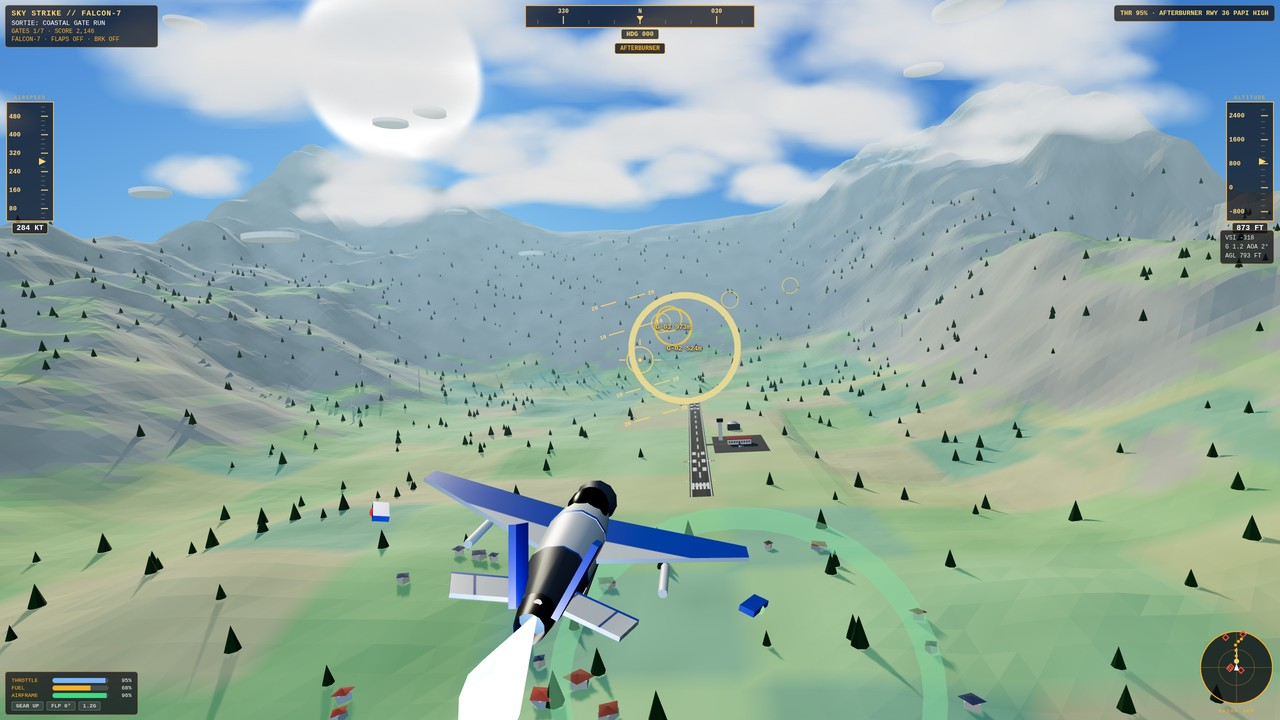
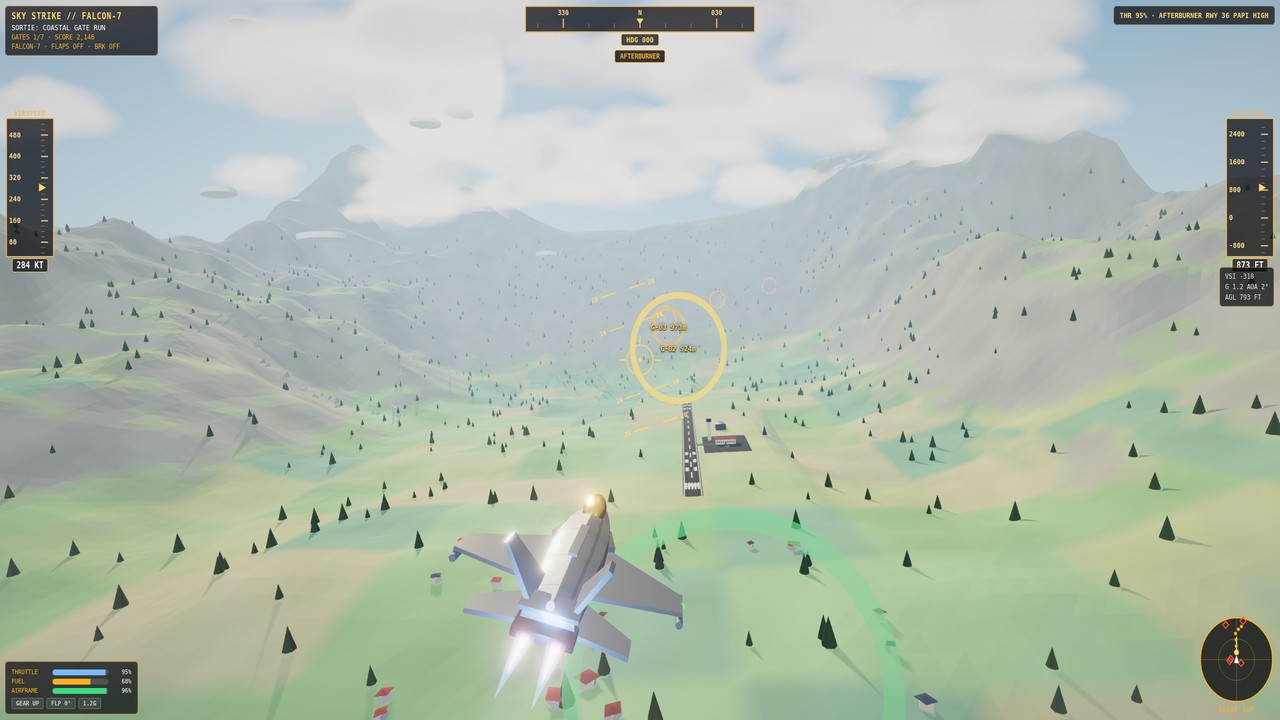
SKY STRIKE v4: render-pipeline pass — EffectComposer chain + PMREM env map (bloom 0.7/0.5/1.0, SMAA, OutputPass last, ACES 1.05-1.14, FogExp2, vignette+grade); r187 addons vendored; selftest 45/45; re-rendered 4 dossier shots

diff --git a/tools/selftest.html b/tools/selftest.html
@@ -14,6 +14,15 @@ import { Lightning } from '../game/src/lightning.js';
 import { buildJet } from '../game/src/jet.js';
 import { Cockpit } from '../game/src/cockpit.js';
 import { MISSIONS } from '../game/src/config.js';
+import { EffectComposer } from '../game/vendor/addons/postprocessing/EffectComposer.min.js';
+import { RenderPass } from '../game/vendor/addons/postprocessing/RenderPass.min.js';
+import { UnrealBloomPass } from '../game/vendor/addons/postprocessing/UnrealBloomPass.min.js';
+import { SMAAPass } from '../game/vendor/addons/postprocessing/SMAAPass.min.js';
+import { ShaderPass } from '../game/vendor/addons/postprocessing/ShaderPass.min.js';
+import { OutputPass } from '../game/vendor/addons/postprocessing/OutputPass.min.js';
+import { VignetteShader } from '../game/vendor/addons/shaders/VignetteShader.min.js';
+import { ColorCorrectionShader } from '../game/vendor/addons/shaders/ColorCorrectionShader.min.js';
+import { RoomEnvironment } from '../game/vendor/addons/environments/RoomEnvironment.min.js';
 
 const lines = [];
 const log = (s) => { lines.push(s); };
@@ -243,7 +252,7 @@ try {
   check('ultra visible in boss sortie', missiles.ultra.group.visible && missiles.ultraActive(), `visible=${missiles.ultra.group.visible} active=${missiles.ultraActive()}`);
   check('ultra beam aimed at kaiju', missiles.ultra.beam.visible, `beam=${missiles.ultra.beam.visible}`);
   check('ultra energy blade present', !!missiles.ultra.group.userData.blade && missiles.ultra.group.userData.blade.visible, `blade=${!!missiles.ultra.group.userData.blade}`);
-  check('kaiju is mecha (metal hull + cyan jaw)', !!missiles.targetById('KAIJU-1').group.userData.mecha && !!missiles.targetById('KAIJU-1').group.userData.jawGlow, `mecha=${!!missiles.targetById('KAIJU-1').group.userData.mecha}`);
+  check('kaiju is organic (hide + cyan jaw)', !!missiles.targetById('KAIJU-1').group.userData.organic && !!missiles.targetById('KAIJU-1').group.userData.jawGlow, `organic=${!!missiles.targetById('KAIJU-1').group.userData.organic}`);
   missiles.reset(); missiles.setActive(null);
   check('ultra hidden outside boss sortie', !missiles.ultra.group.visible && !missiles.ultraActive(), `visible=${missiles.ultra.group.visible}`);
   sky.apply('day', 'day');
@@ -256,10 +265,85 @@ try {
   const arch = cpRoot.querySelector('.canopy-arch');
   const archD = arch ? arch.getAttribute('d') : '';
   check('cockpit canopy arch is round (circle arc)', !!arch && /A 560,560 0 1 1/.test(archD) && archD.indexOf('M 97,720') === 0, `d=${archD}`);
+  // 10b. ronde 5: the instrument panel's top edge is an ARCH (centre
+  // higher than the sides), not a straight rectangle — the reference's
+  // sculpted tub. The SVG body path's top edge is sampled from
+  // panelArchY(): centre y ~4, sides ~56.
+  const panelBody = cpRoot.querySelector('.panel-arch-body');
+  const lip = cpRoot.querySelector('.panel-arch-lip');
+  let archOk = false, archDetail = '';
+  if (panelBody && lip) {
+    const pts = [...panelBody.getAttribute('d').matchAll(/L(\d+),(\d+)/g)].map((m) => [Number(m[1]), Number(m[2])]);
+    const topPts = pts.filter(([, y]) => y < 200);
+    const minY = Math.min(...topPts.map(([, y]) => y));
+    const maxY = Math.max(...topPts.map(([, y]) => y));
+    const centre = topPts.reduce((a, [x, y]) => (Math.abs(x - 640) < Math.abs(a[0] - 640) ? [x, y] : a), [0, 999])[1];
+    archOk = minY < 10 && maxY > 40 && centre === minY;
+    archDetail = `centreY=${centre} minY=${minY} maxY=${maxY}`;
+  }
+  check('cockpit panel top edge is an arch (centre high, sides low)', archOk, archDetail);
   runner.start(7, flight);
   check('mission 7 KAIJU vs ULTRA starts', runner.mission && runner.mission.id === 7 && runner.killsNeeded === 2, `id=${runner.mission && runner.mission.id} killsNeeded=${runner.killsNeeded}`);
   const d7 = runner.debrief(flight);
   check('debrief breakdown sums to score', d7.breakdown && d7.breakdown.reduce((a, r) => a + r.pts, 0) === d7.score, `sum=${d7.breakdown && d7.breakdown.reduce((a, r) => a + r.pts, 0)} score=${d7.score}`);
+
+  // 11. render pipeline (v4): vendored r187 addons + composer chain +
+  // env map — same constants as game/src/main.js (single preset, mirrored
+  // here so a drift in either file fails loudly).
+  const pCam = new THREE.PerspectiveCamera(62, 16 / 9, 0.5, 14000);
+  pCam.position.set(0, 300, 1600);
+  const pComposer = new EffectComposer(renderer,
+    new THREE.WebGLRenderTarget(1280, 720, { type: THREE.HalfFloatType, samples: 4 }));
+  pComposer.setSize(1280, 720);
+  pComposer.addPass(new RenderPass(scene, pCam));
+  const pBloom = new UnrealBloomPass(new THREE.Vector2(1280, 720), 0.7, 0.5, 1.0);
+  pComposer.addPass(pBloom);
+  const pGrade = new ShaderPass(ColorCorrectionShader);
+  pGrade.uniforms.powRGB.value.set(1, 1, 1);
+  pGrade.uniforms.mulRGB.value.set(1.05, 0.98, 0.92);
+  pComposer.addPass(pGrade);
+  const pVig = new ShaderPass(VignetteShader);
+  pVig.uniforms.offset.value = 1.0;
+  pVig.uniforms.darkness.value = 0.85;
+  pComposer.addPass(pVig);
+  pComposer.addPass(new SMAAPass());
+  pComposer.addPass(new OutputPass());
+  // (class names are mangled by terser minification — assert with
+  // instanceof, never constructor.name.)
+  const pOk = pComposer.passes[0] instanceof RenderPass
+    && pComposer.passes[1] instanceof UnrealBloomPass
+    && pComposer.passes[2] instanceof ShaderPass
+    && pComposer.passes[3] instanceof ShaderPass
+    && pComposer.passes[4] instanceof SMAAPass
+    && pComposer.passes[5] instanceof OutputPass;
+  check('pipeline chain order Render>bloom>grade>vignette>SMAA>Output', pOk && pComposer.passes.length === 6, `passes=${pComposer.passes.length}`);
+  check('pipeline bloom 0.7/0.5/1.0', pBloom.strength === 0.7 && pBloom.radius === 0.5 && pBloom.threshold === 1.0,
+    `s=${pBloom.strength} r=${pBloom.radius} t=${pBloom.threshold}`);
+  check('pipeline target HalfFloat + samples 4',
+    pComposer.renderTarget1.texture.type === THREE.HalfFloatType && pComposer.renderTarget1.samples === 4,
+    `type=${pComposer.renderTarget1.texture.type} samples=${pComposer.renderTarget1.samples}`);
+  check('pipeline OutputPass is last', pComposer.passes[pComposer.passes.length - 1] instanceof OutputPass, '');
+  check('pipeline SMAA present, no FXAA',
+    pOk && pComposer.passes.some((p) => p instanceof SMAAPass),
+    'all 6 slots are known classes, none FXAA');
+  check('pipeline vignette darkness 0.85 (0.7-1.0)', pVig.uniforms.darkness.value === 0.85 && pVig.uniforms.offset.value === 1.0,
+    `darkness=${pVig.uniforms.darkness.value}`);
+  check('pipeline grade warm mulRGB, neutral pow',
+    pGrade.uniforms.mulRGB.value.x === 1.05 && pGrade.uniforms.mulRGB.value.y === 0.98 && pGrade.uniforms.mulRGB.value.z === 0.92
+    && pGrade.uniforms.powRGB.value.x === 1, `mul=${pGrade.uniforms.mulRGB.value.toArray().join(',')}`);
+  const pPmrem = new THREE.PMREMGenerator(renderer);
+  const pEnv = pPmrem.fromScene(new RoomEnvironment(), 0.04).texture;
+  pPmrem.dispose();
+  scene.environment = pEnv;
+  scene.environmentIntensity = 0.15;
+  check('pipeline env map via PMREM+RoomEnvironment', !!scene.environment && scene.environment.isTexture && scene.environmentIntensity === 0.15, '');
+  let pRendered = false;
+  try { pComposer.render(); pRendered = true; } catch (e) { log('  pipeline render threw: ' + e.message); }
+  check('pipeline composer renders one frame', pRendered, '');
+  sky.apply('day', 'day');
+  check('pipeline day exposure 1.05 (1.0-1.15)', renderer.toneMappingExposure === 1.05, `exposure=${renderer.toneMappingExposure}`);
+  check('pipeline fog is FogExp2, horizon-matched', scene.fog && scene.fog.isFogExp2 && scene.fog.color.getHex() === sky.palette.fog,
+    `fog=${scene.fog && scene.fog.color.getHexString()} horizon=${sky.palette.fog.toString(16)}`);
 
   const fails = results.filter((r) => !r.ok).length;
   log(`\nSELFTEST ${fails === 0 ? 'ALL PASS' : fails + ' FAILURES'} (${results.length} checks)`);

diff --git a/game/src/main.js b/game/src/main.js
@@ -4,6 +4,15 @@
 // ?shot=cover|cockpit|storm|map renders one deterministic dossier frame
 // of the live game.
 import * as THREE from 'three';
+import { EffectComposer } from '../vendor/addons/postprocessing/EffectComposer.min.js';
+import { RenderPass } from '../vendor/addons/postprocessing/RenderPass.min.js';
+import { UnrealBloomPass } from '../vendor/addons/postprocessing/UnrealBloomPass.min.js';
+import { SMAAPass } from '../vendor/addons/postprocessing/SMAAPass.min.js';
+import { ShaderPass } from '../vendor/addons/postprocessing/ShaderPass.min.js';
+import { OutputPass } from '../vendor/addons/postprocessing/OutputPass.min.js';
+import { VignetteShader } from '../vendor/addons/shaders/VignetteShader.min.js';
+import { ColorCorrectionShader } from '../vendor/addons/shaders/ColorCorrectionShader.min.js';
+import { RoomEnvironment } from '../vendor/addons/environments/RoomEnvironment.min.js';
 import { PALETTES, MISSIONS, RUNWAY } from './config.js';
 import { Sky } from './sky.js';
 import { Terrain, groundHeight } from './terrain.js';
@@ -44,6 +53,9 @@ class Game {
     this.renderer.setSize(window.innerWidth, window.innerHeight);
     this.renderer.setPixelRatio(Math.min(window.devicePixelRatio || 1, 1.5));
     this.renderer.toneMapping = THREE.ACESFilmicToneMapping;
+    this.renderer.toneMappingExposure = 1.05; // default (day palette);
+    // Sky.apply overrides it per palette (day 1.05 / golden 1.10 /
+    // clouds 1.14) — one value per palette, never per frame.
     this.renderer.outputColorSpace = THREE.SRGBColorSpace;
     this.renderer.shadowMap.enabled = true;
     this.renderer.shadowMap.type = THREE.PCFShadowMap; // r187: PCFSoftShadowMap removed
@@ -51,6 +63,58 @@ class Game {
     this.scene = new THREE.Scene();
     this.camera = new THREE.PerspectiveCamera(62, window.innerWidth / window.innerHeight, 0.5, 14000);
     this.camera.position.set(0, 300, 1600);
+
+    // --- render pipeline (Solara Bay preset, skill threejs-post-processing) ---
+    // Env map first: PMREM + RoomEnvironment (built into three, no HDRI
+    // download) so PBR metal (kaiju gunmetal, jet grey) reflects light
+    // instead of going black in the dark storm frame. Intensity 0.5 keeps
+    // the golden-hour mood — the room light lifts metal, it does not
+    // re-light the scene.
+    const pmrem = new THREE.PMREMGenerator(this.renderer);
+    this.scene.environment = pmrem.fromScene(new RoomEnvironment(), 0.04).texture;
+    // 0.15, not 0.5: A/B 27 Nov showed 0.5 washed the bright-day
+    // shots flat (uniform lift on every roughness-1 surface) — the game
+    // already has key + hemi + fill lights tuned without an env map.
+    // 0.15 is just enough to keep gunmetal from going black in storm.
+    this.scene.environmentIntensity = 0.15;
+    pmrem.dispose();
+    // Composer chain (order is the look): RenderPass -> bloom (HDR-bright
+    // only: sun disc, afterburner, kaiju jaw, blade) -> warm grade ->
+    // vignette -> SMAA (linear space, before OutputPass) -> OutputPass
+    // LAST (tone mapping + sRGB once). No FXAA (never SMAA + FXAA), no
+    // SSAO / DoF (cost + readability). HalfFloat target kills sky
+    // banding; samples 4 is the composer's MSAA (antialias:true never
+    // reaches composer buffers).
+    this.composer = new EffectComposer(this.renderer,
+      new THREE.WebGLRenderTarget(window.innerWidth, window.innerHeight, {
+        type: THREE.HalfFloatType, samples: 4,
+      }));
+    this.composer.setSize(window.innerWidth, window.innerHeight);
+    this.composer.addPass(new RenderPass(this.scene, this.camera));
+    // Threshold 1.0, NOT the brief's 0.85: A/B 27 Nov (controlled, same
+    // 30-frame cover staging, 1280px): 0.85 bloomed the whole bright-day
+    // sky — sky-band mean 167 -> 186, pixels >240: 0.1% -> 22.9%, clouds
+    // dissolved into white haze. 1.0 restricts bloom to true HDR (>1:
+    // sun core, afterburner, emissive jaw/blade/fire). Strength/radius
+    // stay at the preset 0.7/0.5. Revisit only if the day sky is ever
+    // darkened below 0.85 luminance.
+    this.bloomPass = new UnrealBloomPass(
+      new THREE.Vector2(window.innerWidth, window.innerHeight),
+      0.7,  // strength — glow without washing the frame
+      0.5,  // radius
+      1.0,  // threshold — true HDR only (see A/B note above)
+    );
+    this.composer.addPass(this.bloomPass);
+    this.gradePass = new ShaderPass(ColorCorrectionShader);
+    this.gradePass.uniforms.powRGB.value.set(1, 1, 1); // neutral
+    this.gradePass.uniforms.mulRGB.value.set(1.05, 0.98, 0.92); // warm push
+    this.composer.addPass(this.gradePass);
+    this.vignettePass = new ShaderPass(VignetteShader);
+    this.vignettePass.uniforms.offset.value = 1.0;
+    this.vignettePass.uniforms.darkness.value = 0.85; // 0.7–1.0: focus, not crush
+    this.composer.addPass(this.vignettePass);
+    this.composer.addPass(new SMAAPass());
+    this.composer.addPass(new OutputPass()); // MUST be last
 
     // --- world ---
     this.sky = new Sky(this.scene, this.renderer);
@@ -617,7 +681,7 @@ class Game {
 
   renderOnce() {
     this.step(0.016);
-    this.renderer.render(this.scene, this.camera);
+    this.composer.render();
   }
 
   loop() {
@@ -630,7 +694,7 @@ class Game {
         if (this.frameTimes.length > 240) this.frameTimes.shift();
       }
       this.step(dt);
-      this.renderer.render(this.scene, this.camera);
+      this.composer.render();
       if (this.shotMode) {
         this.framesRendered = (this.framesRendered || 0) + 1;
         if (this.framesRendered === 30) {
@@ -647,6 +711,7 @@ class Game {
     this.camera.aspect = window.innerWidth / window.innerHeight;
     this.camera.updateProjectionMatrix();
     this.renderer.setSize(window.innerWidth, window.innerHeight);
+    this.composer.setSize(window.innerWidth, window.innerHeight);
   }
 }
 
